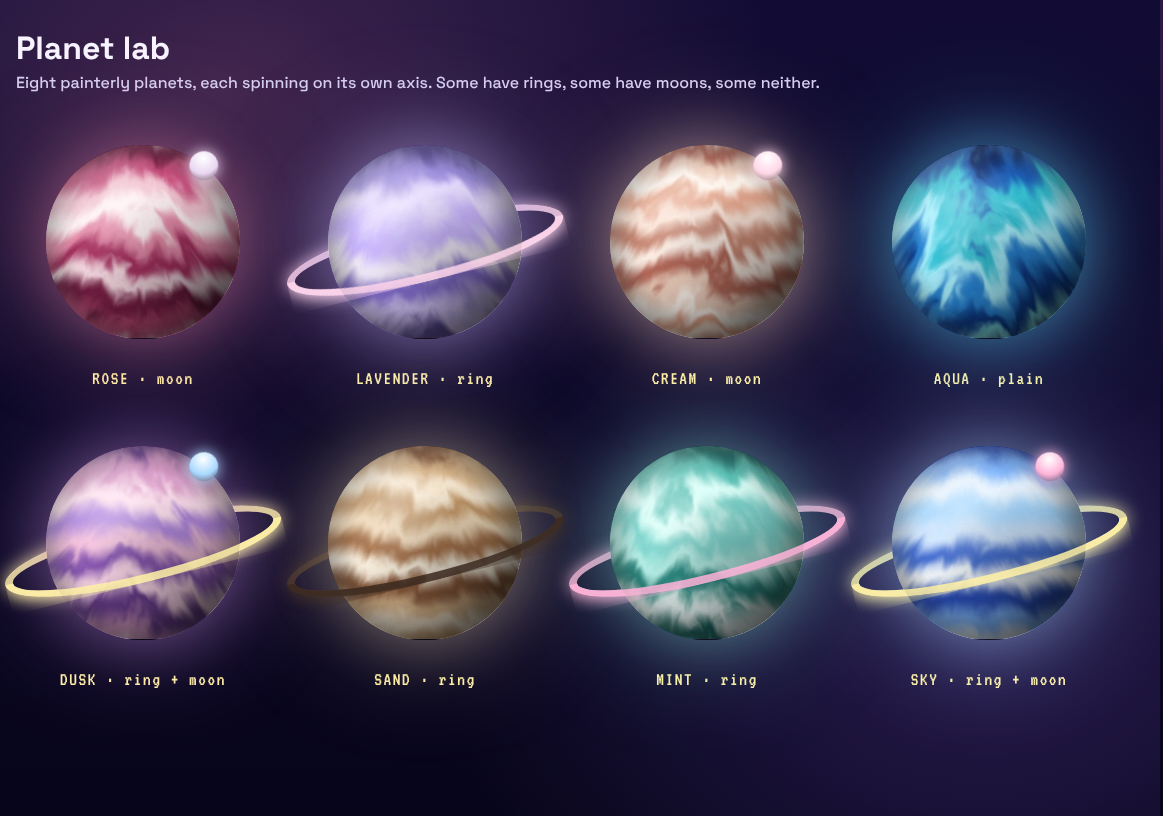
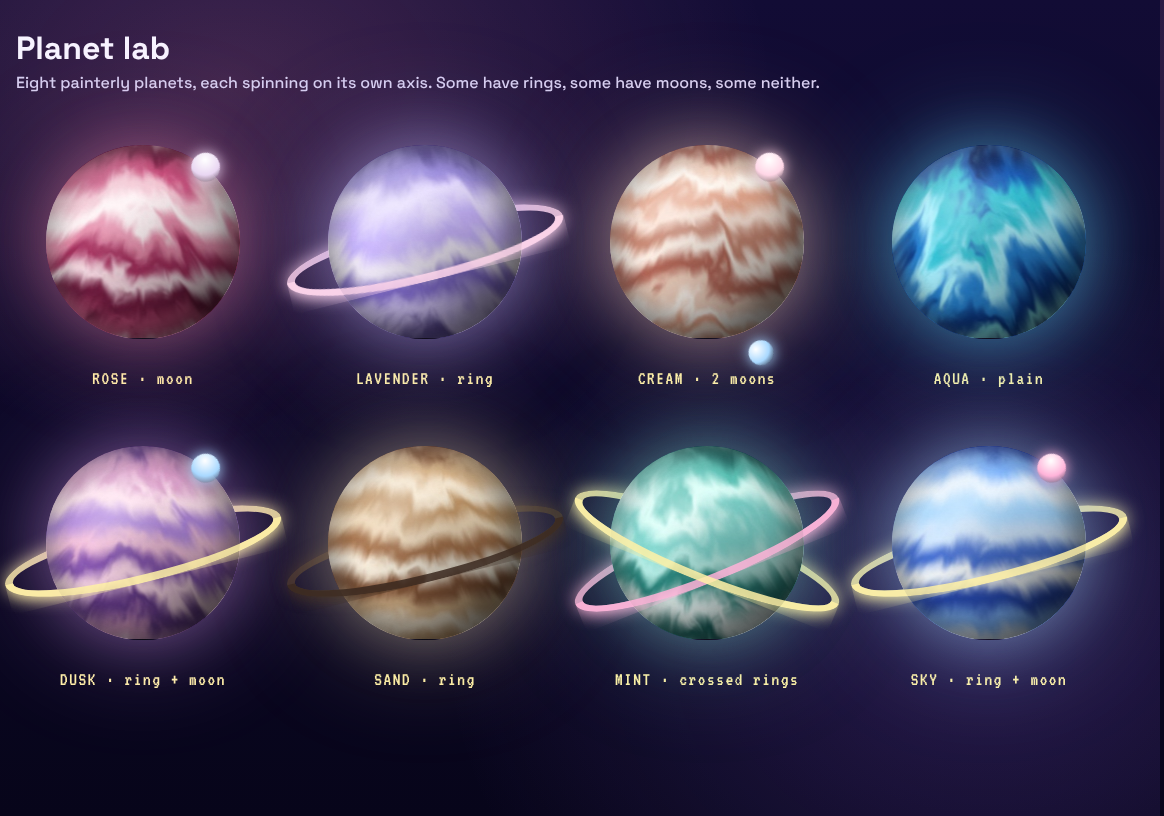
Planets: cream gets two moons, mint gets crossed rings
Claude-Session: https://claude.ai/code/session_0126NKCS3TtysyaQaZxswtoT

diff --git a/site/assets/planets.js b/site/assets/planets.js
@@ -7,11 +7,11 @@
     // name: [band colors], band count, swirl, ring color (or null), moon color (or null), glow
     rose:     { c: ['#7a1f45', '#c94f7c', '#f3c4d2', '#fff1f4', '#e58aa8', '#a83260', '#f7d9e2'], bands: 9, swirl: 0.55, ring: null, moon: '#e9d6f2', glow: '#ff8fb855' },
     lavender: { c: ['#5b4b9a', '#9f8fe0', '#e6dcff', '#c9b6ff', '#f6efff', '#8a73d6', '#d8c9ff'], bands: 7, swirl: 0.35, ring: '#ffd6ec', moon: null, glow: '#c9b6ff66' },
-    cream:    { c: ['#b86b5b', '#f2d2c0', '#fff6ee', '#e7a98f', '#fbe3d6', '#c98974', '#fff0e6'], bands: 11, swirl: 0.6, ring: null, moon: '#ffd6e6', glow: '#ffd2c066' },
+    cream:    { c: ['#b86b5b', '#f2d2c0', '#fff6ee', '#e7a98f', '#fbe3d6', '#c98974', '#fff0e6'], bands: 11, swirl: 0.6, ring: null, moon: ['#ffd6e6', '#a8d8ff'], glow: '#ffd2c066' },
     aqua:     { c: ['#0d2a6b', '#1f5fb8', '#38c6d9', '#a8f0ff', '#2a86d6', '#0f3f91', '#7fe3f0'], bands: 6, swirl: 0.9, ring: null, moon: null, glow: '#5fd8ff66' },
     dusk:     { c: ['#6b3f8f', '#d99cc8', '#ffe1ef', '#b48be0', '#f5c2de', '#8c5bb5', '#ffd9ec'], bands: 8, swirl: 0.45, ring: '#fff1a6', moon: '#a8d8ff', glow: '#e7a6ff55' },
     sand:     { c: ['#8a5a3c', '#d8b48a', '#f5e6cf', '#c49a6c', '#efd8b8', '#a9764f', '#fbf0de'], bands: 10, swirl: 0.4, ring: '#3b2a20', moon: null, glow: '#d8c3a566' },
-    mint:     { c: ['#1d6b66', '#5fc4b8', '#d9fff8', '#81d8d0', '#b8f2ea', '#2f8f86', '#effffc'], bands: 7, swirl: 0.5, ring: '#ffb3d9', moon: null, glow: '#81d8d066' },
+    mint:     { c: ['#1d6b66', '#5fc4b8', '#d9fff8', '#81d8d0', '#b8f2ea', '#2f8f86', '#effffc'], bands: 7, swirl: 0.5, ring: [['#ffb3d9', -22], ['#fff1a6', 22]], moon: null, glow: '#81d8d066' },
     sky:      { c: ['#2b4fb8', '#7fb6ff', '#e6f3ff', '#a8d8ff', '#cfe6ff', '#4a74d6', '#f5fbff'], bands: 9, swirl: 0.3, ring: '#fff1a6', moon: '#ffb3d9', glow: '#a8d8ff66' },
   };
 
@@ -58,11 +58,13 @@
   function build(el) {
     const name = el.dataset.p, p = PRESETS[name]; if (!p) return;
     el.style.setProperty('--glow', p.glow);
-    el.innerHTML =
-      (p.ring ? '<span class="p3-ring back" style="--ring:' + p.ring + '"></span>' : '') +
+    const rings = !p.ring ? [] : Array.isArray(p.ring) ? p.ring : [[p.ring, -14]];
+    const moons = !p.moon ? [] : [].concat(p.moon);
+    const ring = side => rings.map(([c, a]) => '<span class="p3-ring ' + side + '" style="--ring:' + c + ';--tilt:' + a + 'deg"></span>').join('');
+    el.innerHTML = ring('back') +
       '<span class="p3-ball"><span class="p3-tex" style="background-image:url(' + texture(name, p) + ')"></span><span class="p3-shade"></span></span>' +
-      (p.ring ? '<span class="p3-ring front" style="--ring:' + p.ring + '"></span>' : '') +
-      (p.moon ? '<span class="p3-orbit"><span class="p3-moon" style="--moon:' + p.moon + '"></span></span>' : '');
+      ring('front') +
+      moons.map((c, i) => '<span class="p3-orbit' + (i ? ' alt' : '') + '"><span class="p3-moon" style="--moon:' + c + '"></span></span>').join('');
   }
 
   function init() { document.querySelectorAll('.planet3').forEach(build); }

diff --git a/site/assets/planets.css b/site/assets/planets.css
@@ -5,10 +5,12 @@
 .planet3 .p3-shade{position:absolute;inset:0;border-radius:50%;
   background:radial-gradient(circle at 34% 30%,#ffffff55 0,#ffffff00 32%),radial-gradient(circle at 50% 50%,transparent 52%,#0000002e 72%,#000000a0 100%),radial-gradient(circle at 78% 78%,#00000066,transparent 55%);
   box-shadow:inset -10px -14px 40px #0008,inset 6px 6px 22px #ffffff38}
-.planet3 .p3-ring{position:absolute;left:-6%;right:-6%;top:41%;height:18%;border-radius:50%;border:clamp(3px,1.4vw,8px) solid var(--ring);opacity:.85;transform:rotate(-14deg);box-shadow:0 0 18px var(--ring)}
+.planet3 .p3-ring{position:absolute;left:-6%;right:-6%;top:41%;height:18%;border-radius:50%;border:clamp(3px,1.4vw,8px) solid var(--ring);opacity:.85;transform:rotate(var(--tilt,-14deg));box-shadow:0 0 18px var(--ring)}
 .planet3 .p3-ring.back{z-index:1}
 .planet3 .p3-ring.front{z-index:3;clip-path:inset(50% 0 0 0)}
 .planet3 .p3-orbit{position:absolute;inset:-2%;border-radius:50%;z-index:4;animation:p3orbit 22s linear infinite}
+.planet3 .p3-orbit.alt{inset:-10%;animation-duration:34s;animation-direction:reverse}
+.planet3 .p3-orbit.alt .p3-moon{width:8%;top:auto;bottom:6%}
 .planet3 .p3-moon{position:absolute;top:8%;left:50%;width:11%;aspect-ratio:1;border-radius:50%;background:radial-gradient(circle at 35% 30%,#fff,var(--moon) 55%,#0006);box-shadow:0 0 14px var(--moon)}
 @keyframes p3spin{to{transform:translateX(-50%)}}
 @keyframes p3orbit{to{transform:rotate(360deg)}}

diff --git a/site/planet-lab.html b/site/planet-lab.html
@@ -9,10 +9,10 @@ figure{margin:0;text-align:center}figcaption{font-family:VT323,monospace;font-si
 <div class="grid">
 <figure><span class="planet3" data-p="rose" style="--spin:70s"></span><figcaption>ROSE · moon</figcaption></figure>
 <figure><span class="planet3" data-p="lavender" style="--spin:55s"></span><figcaption>LAVENDER · ring</figcaption></figure>
-<figure><span class="planet3" data-p="cream" style="--spin:80s"></span><figcaption>CREAM · moon</figcaption></figure>
+<figure><span class="planet3" data-p="cream" style="--spin:80s"></span><figcaption>CREAM · 2 moons</figcaption></figure>
 <figure><span class="planet3" data-p="aqua" style="--spin:45s"></span><figcaption>AQUA · plain</figcaption></figure>
 <figure><span class="planet3" data-p="dusk" style="--spin:60s"></span><figcaption>DUSK · ring + moon</figcaption></figure>
 <figure><span class="planet3" data-p="sand" style="--spin:75s"></span><figcaption>SAND · ring</figcaption></figure>
-<figure><span class="planet3" data-p="mint" style="--spin:50s"></span><figcaption>MINT · ring</figcaption></figure>
+<figure><span class="planet3" data-p="mint" style="--spin:50s"></span><figcaption>MINT · crossed rings</figcaption></figure>
 <figure><span class="planet3" data-p="sky" style="--spin:65s"></span><figcaption>SKY · ring + moon</figcaption></figure>
 </div><script src="assets/planets.js"></script></body></html>
